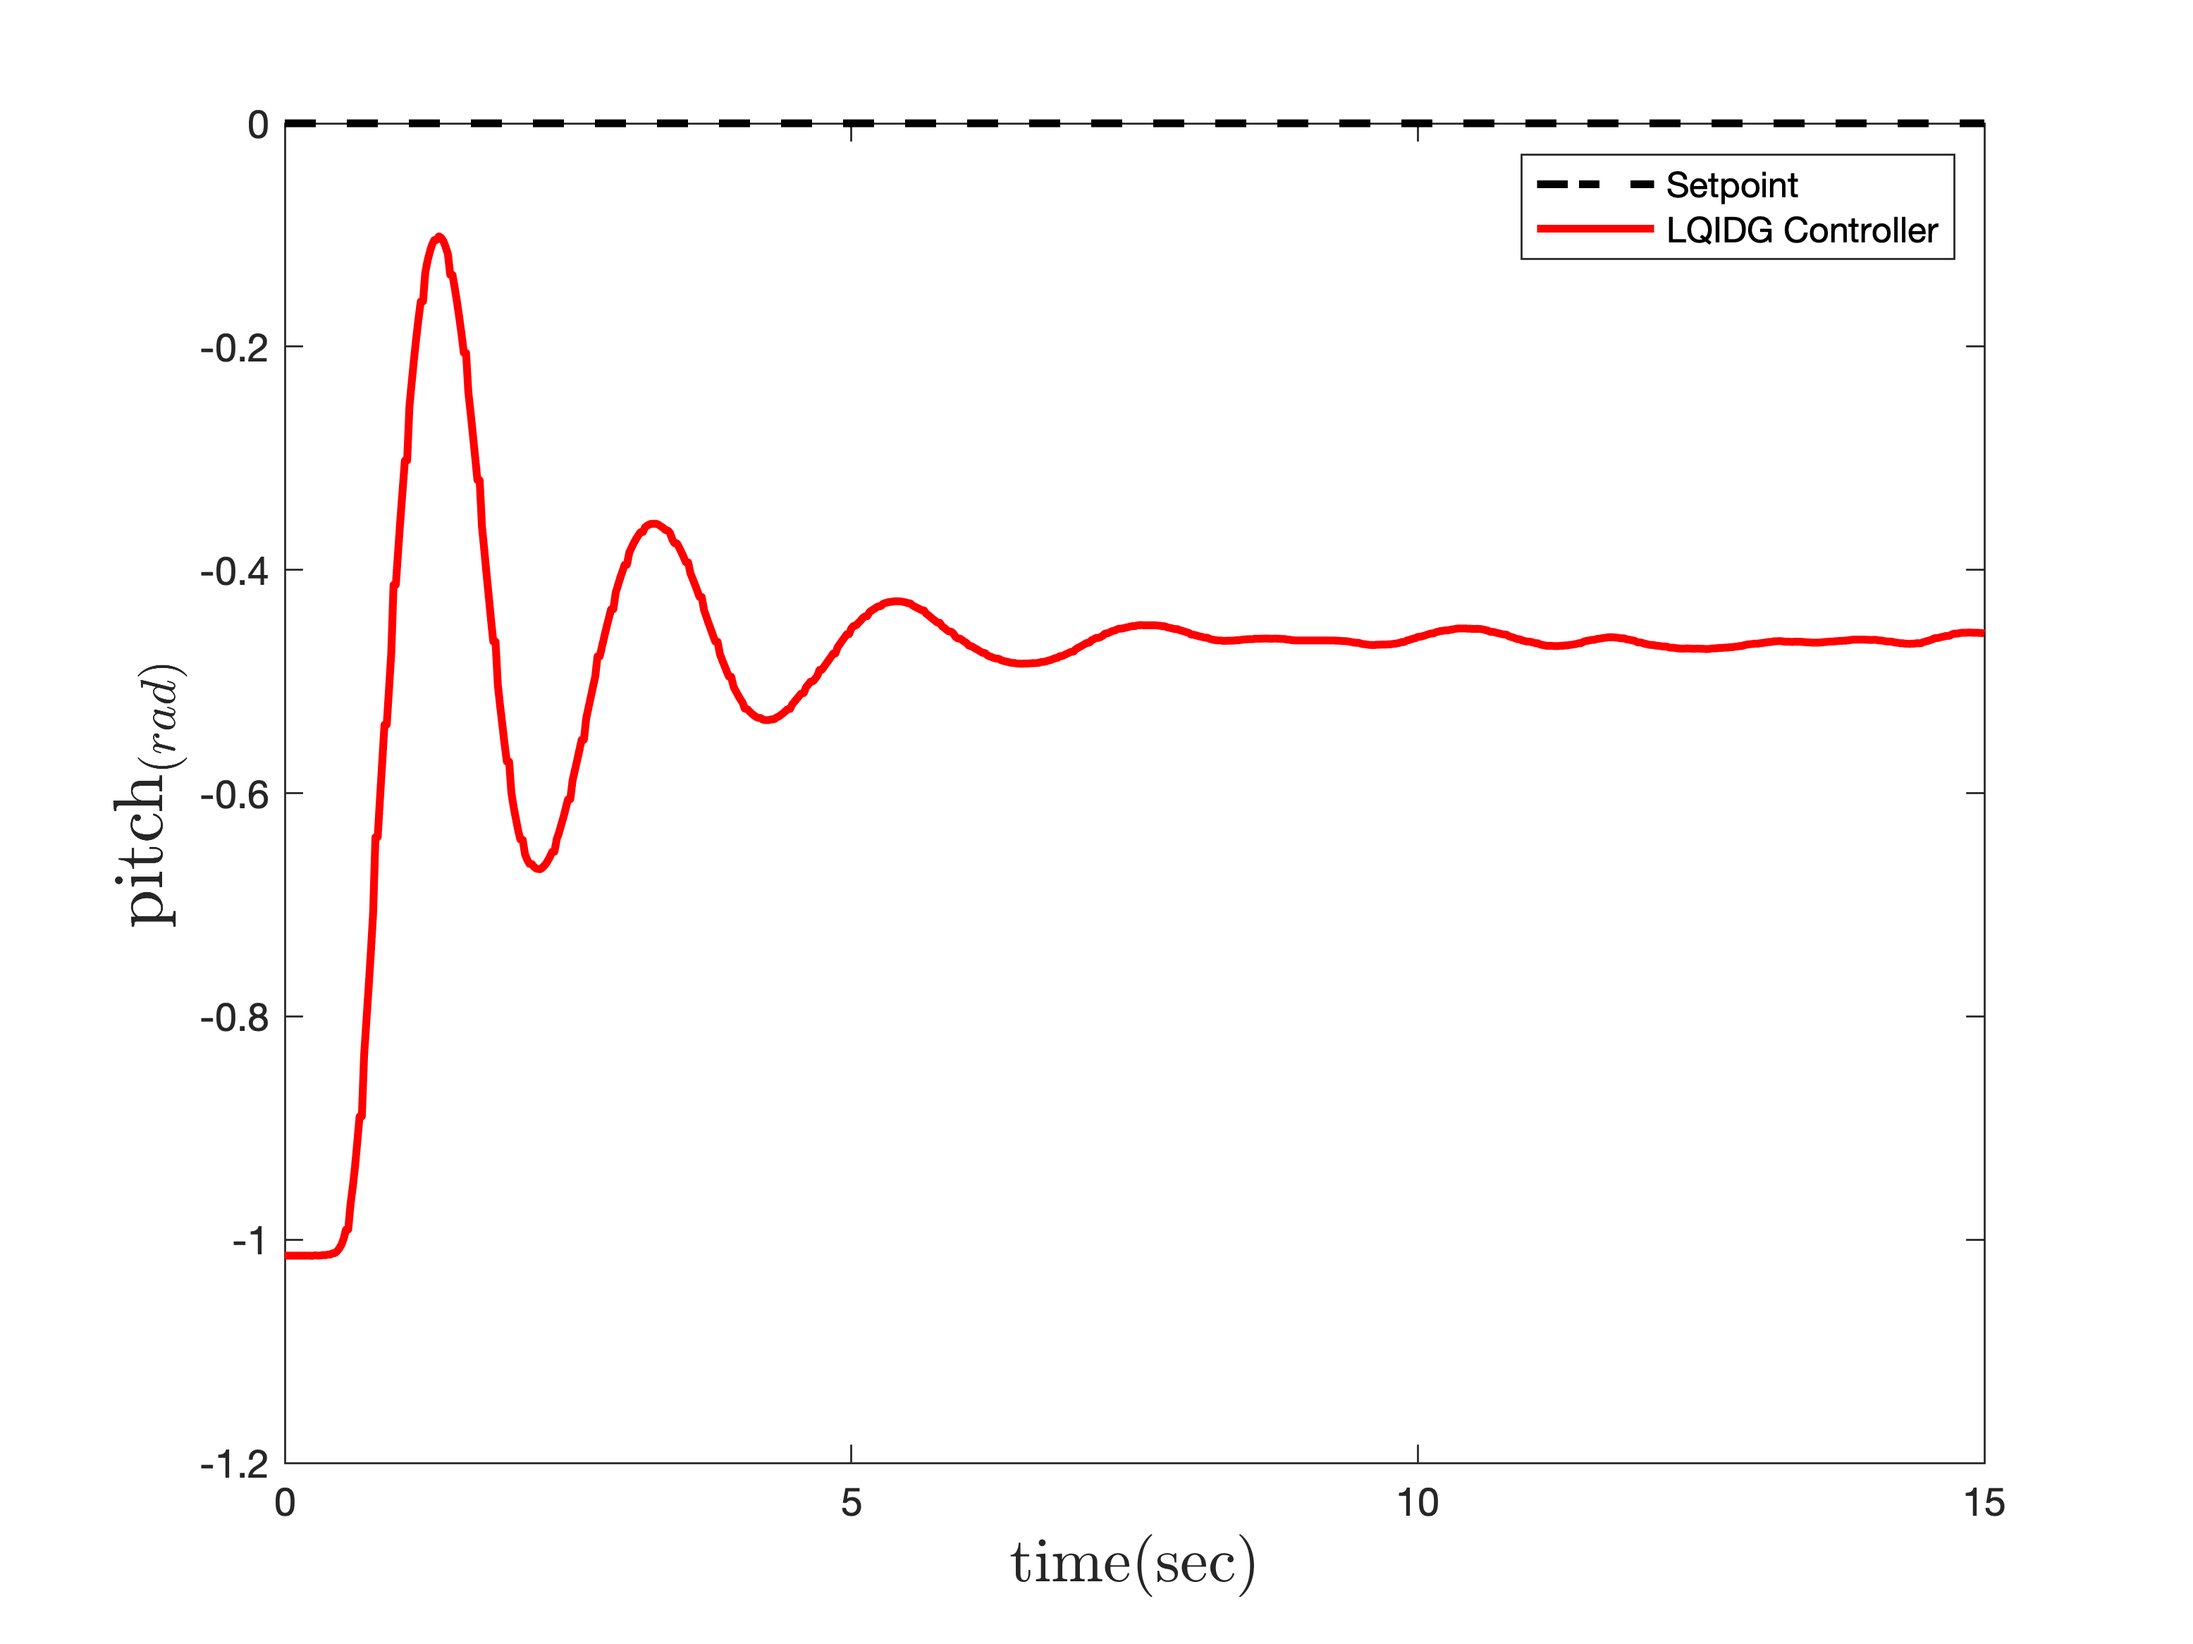
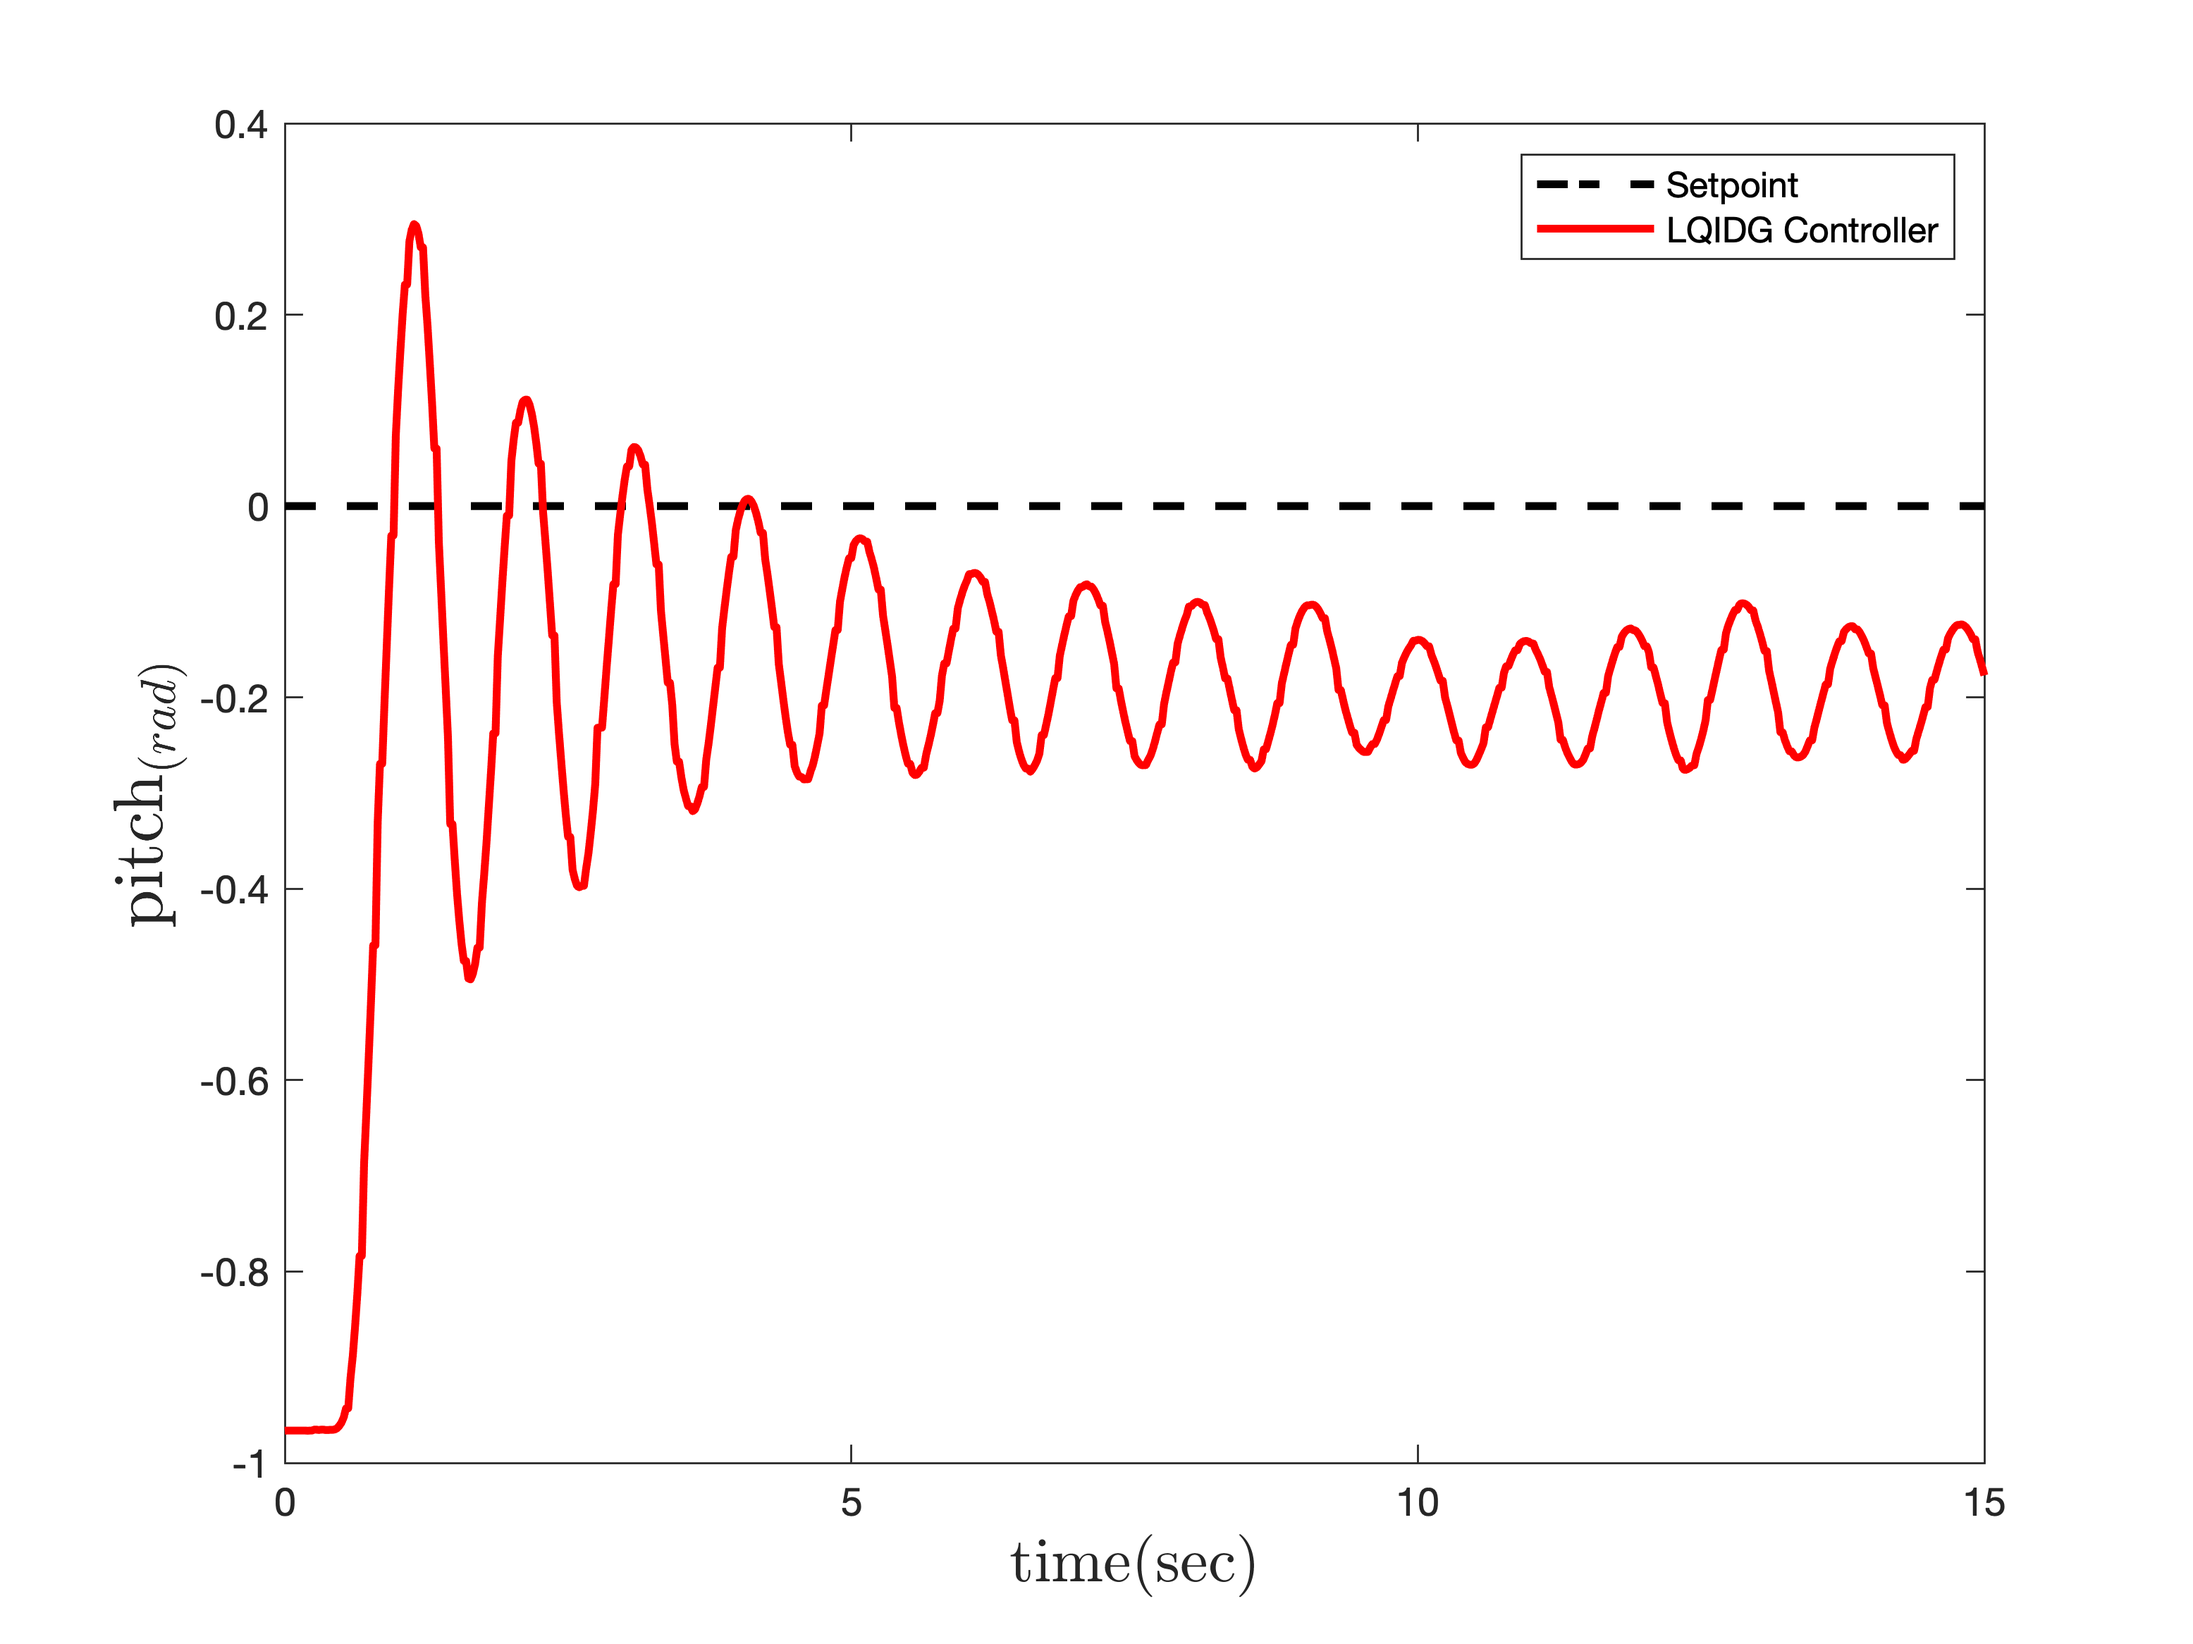
fig from neew data lqr

diff --git a/Code/Simulink/Quadcopter/Calibration/LQDG/Pitch/ploter.m b/Code/Simulink/Quadcopter/Calibration/LQDG/Pitch/ploter.m
@@ -2,7 +2,7 @@ clear;
 clc;
 %% plot data %%
 time = 0:0.02:15; % set time from start
-load('pitch_LQDG.mat'); % load data
+load('pitch_LQDG1.mat'); % load data
 sim_time = 0:0.02:20;
 state_LQDG.signals.values = -state_LQDG.signals.values; %error to state
 % pitch
